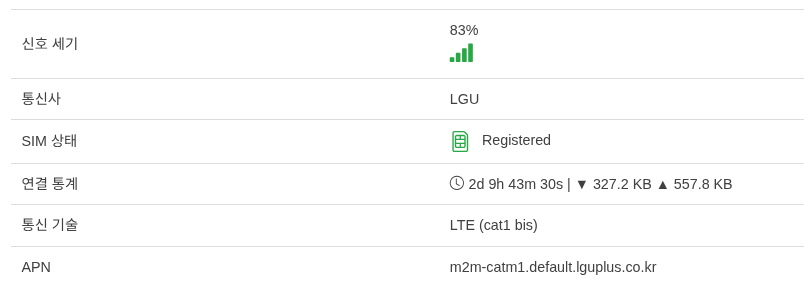
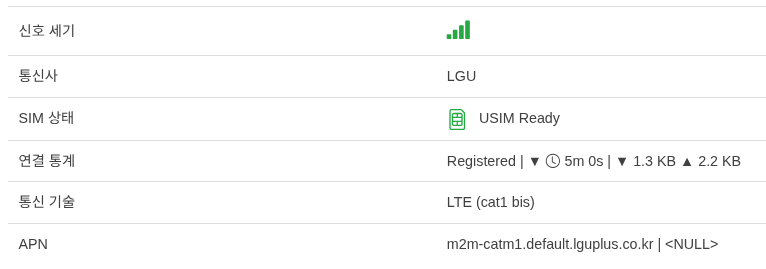
update images

diff --git a/source/main_menu/login.rst b/source/main_menu/login.rst
@@ -12,4 +12,4 @@
 .. image:: ./images/login-00.png
     :width: 50%
 
-.. note:: 패스워드어쩌고 저쩌고.
+.. note:: 패스워드는 디바이스 뒷면에 적혀 있습니다.
